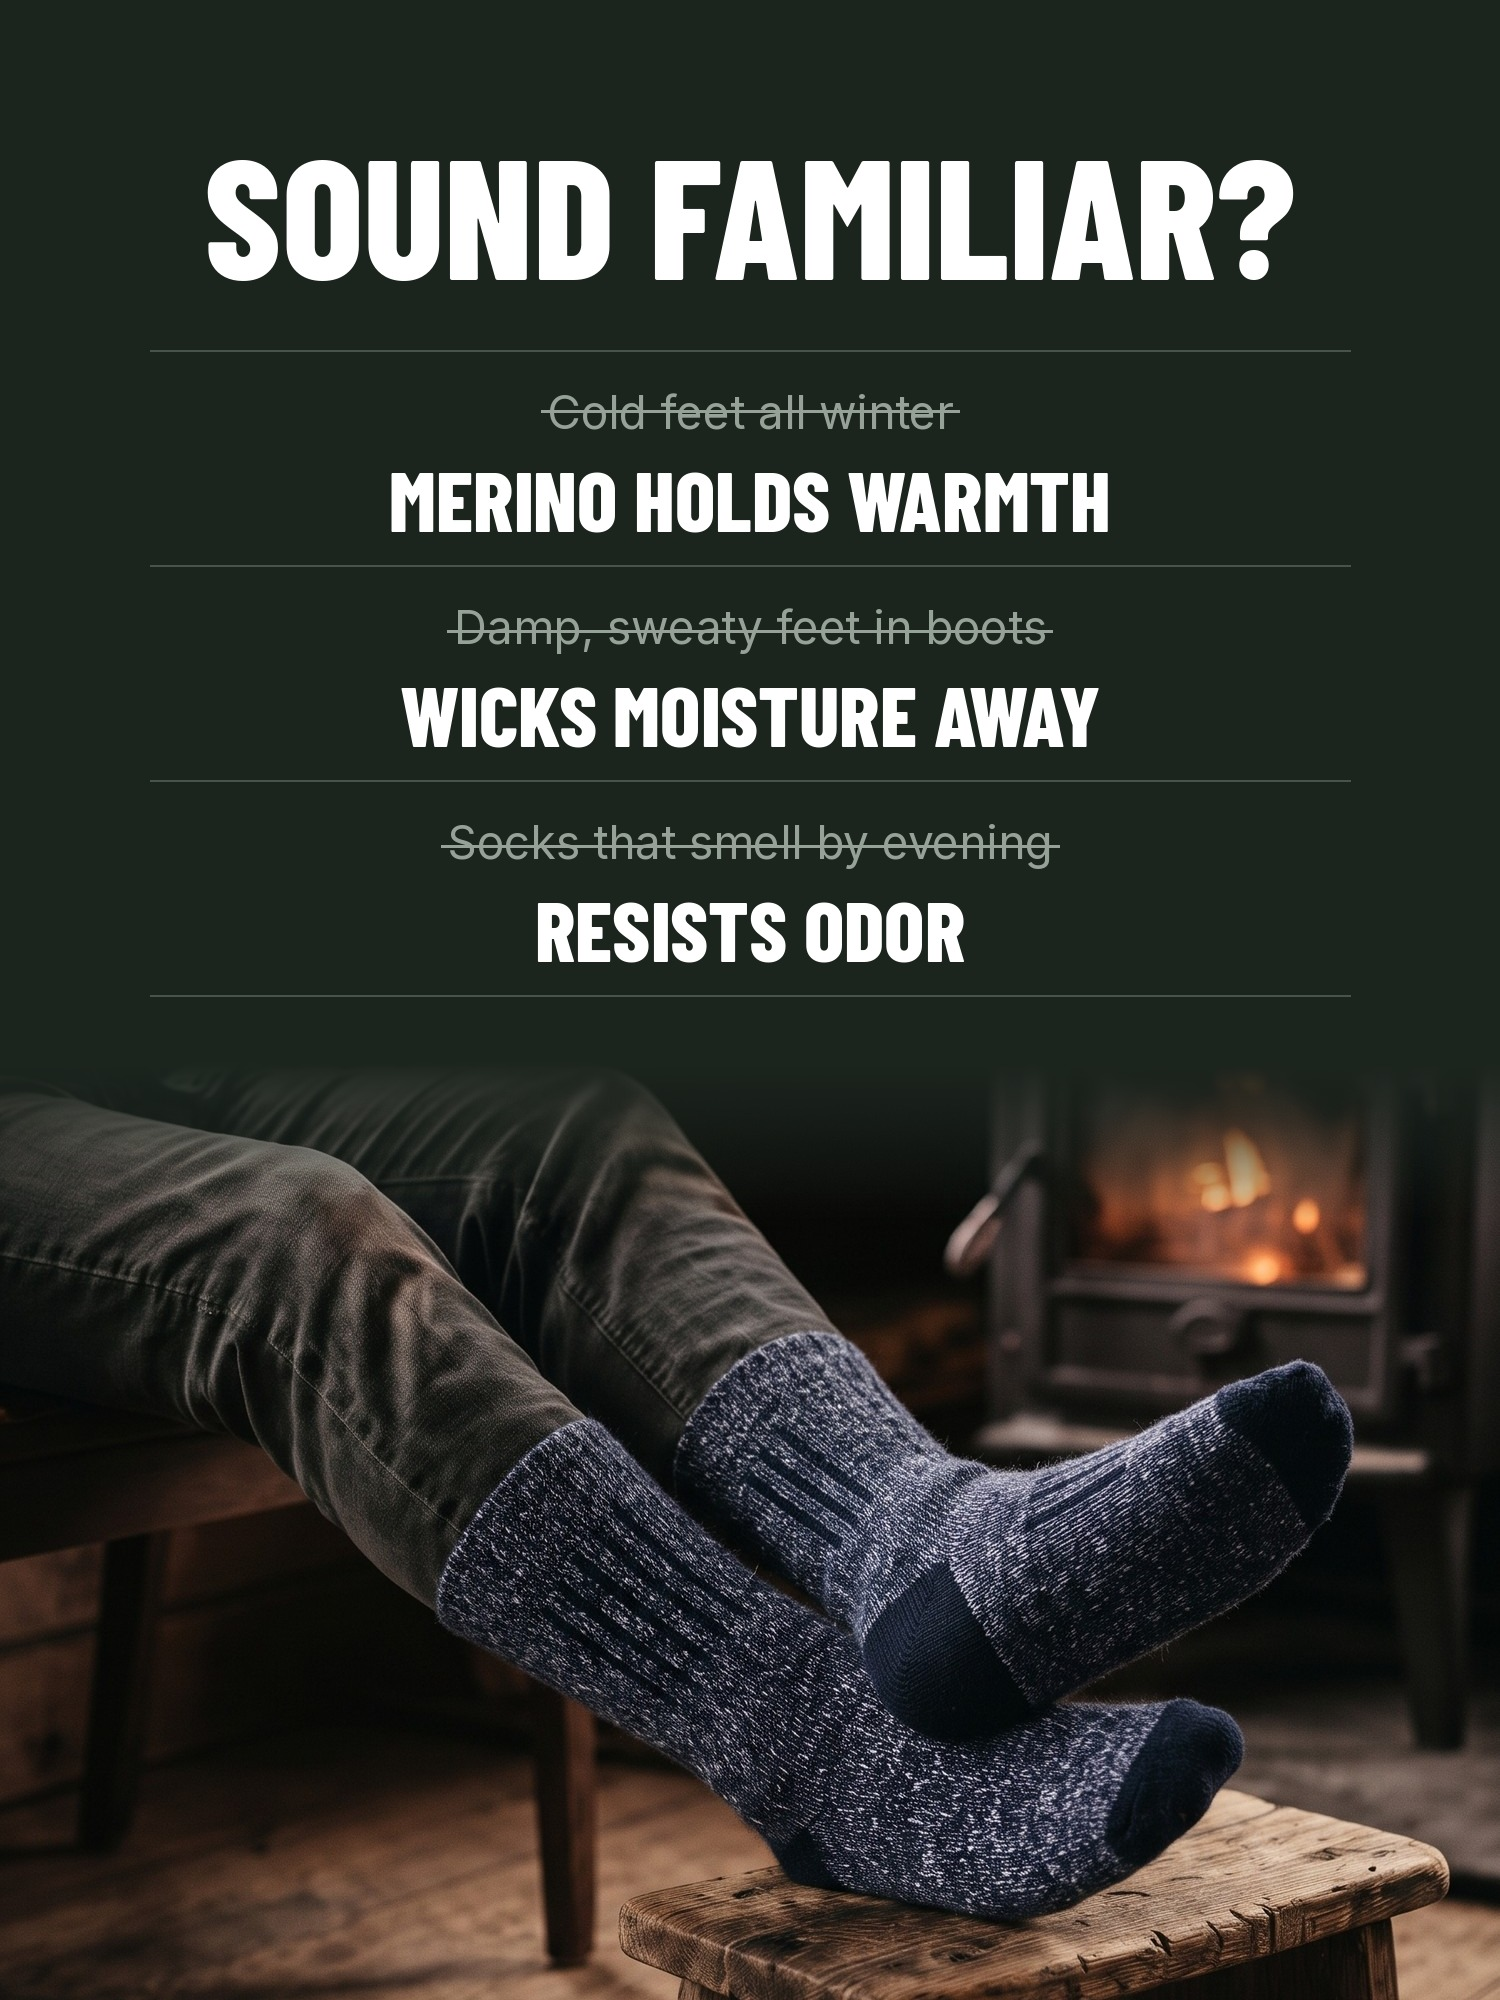
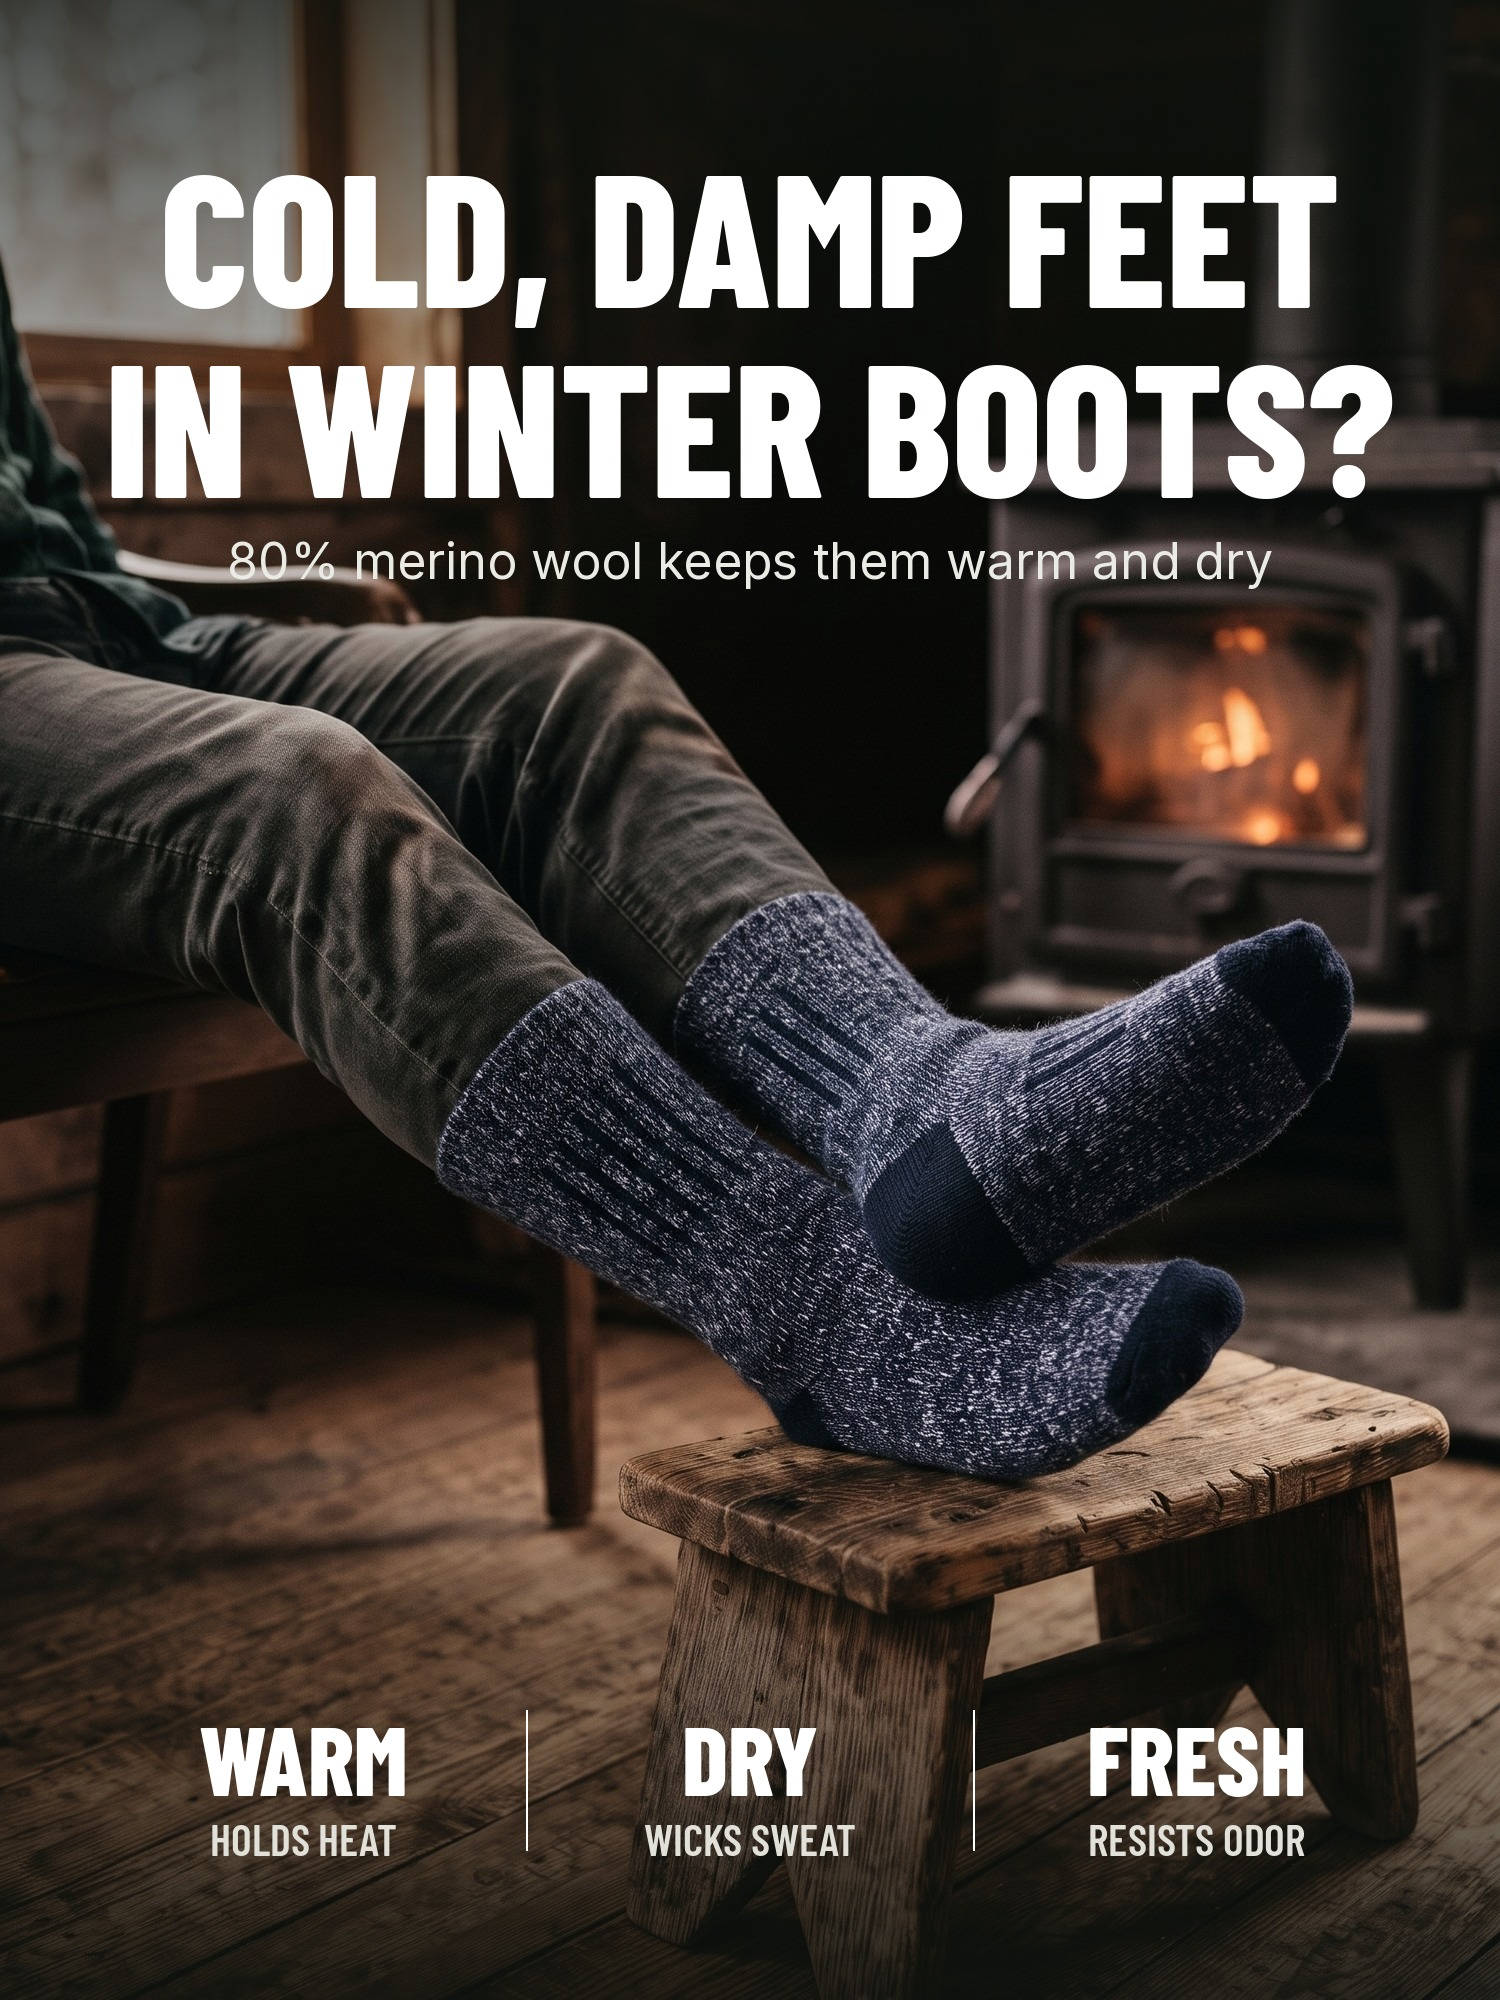
socks carousel: problem image in hero style
Claude-Session: https://claude.ai/code/session_017Ww7bRLYZM3uMxkStKbUri

diff --git a/socks/carousel/problem.py b/socks/carousel/problem.py
@@ -1,0 +1,32 @@
+import sys
+from PIL import Image, ImageDraw, ImageFont, ImageFilter
+src, out = sys.argv[1], sys.argv[2]
+im = Image.open(src).convert('RGB').resize((1500,2000))
+W,H = im.size
+# top gradient for headline legibility
+g = Image.new('L',(1,H))
+for y in range(H):
+    a = 0
+    if y < 760: a = int(200*(1-y/760)**1.3)
+    if y > H-560: a = max(a,int(215*((y-(H-560))/560)**1.2))
+    g.putpixel((0,y),a)
+shade = Image.new('RGB',(W,H),(14,18,14))
+im = Image.composite(shade, im, g.resize((W,H)))
+d = ImageDraw.Draw(im)
+B='pins/BarlowCondensed-ExtraBold.ttf'; SB='pins/BarlowCondensed-SemiBold.ttf'; I='pins/Inter.ttf'
+f1=ImageFont.truetype(B,188); f2=ImageFont.truetype(I,50); fc=ImageFont.truetype(SB,52)
+y=120
+for line in ['COLD, DAMP FEET','IN WINTER BOOTS?']:
+    w=d.textlength(line,font=f1); d.text(((W-w)/2,y),line,font=f1,fill='white'); y+=190
+sub='80% merino wool keeps them warm and dry'
+w=d.textlength(sub,font=f2); d.text(((W-w)/2,y+30),sub,font=f2,fill=(235,235,230))
+# facts strip: 4 columns, white text on the dark bottom, thin dividers, no bubbles
+facts=[('WARM','HOLDS HEAT'),('DRY','WICKS SWEAT'),('FRESH','RESISTS ODOR')]
+fb=ImageFont.truetype(B,96); fs=ImageFont.truetype(SB,44)
+colw=(W-160)/3; yb=H-300
+for i,(a,b) in enumerate(facts):
+    cx=80+colw*i+colw/2
+    wa=d.textlength(a,font=fb); d.text((cx-wa/2,yb),a,font=fb,fill='white')
+    wb=d.textlength(b,font=fs); d.text((cx-wb/2,yb+112),b,font=fs,fill=(225,225,218))
+    if i: d.line([(80+colw*i,yb+10),(80+colw*i,yb+150)],fill=(255,255,255),width=2)
+im.save(out,quality=92)
